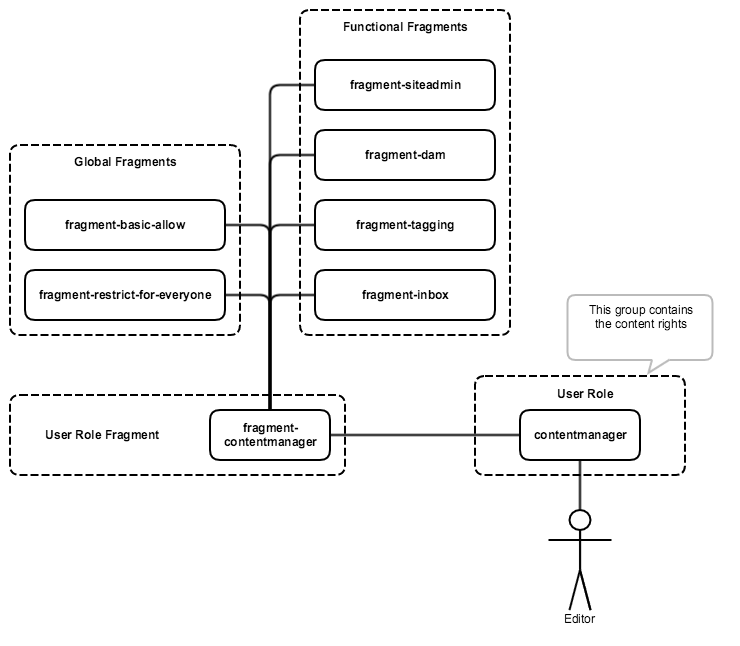
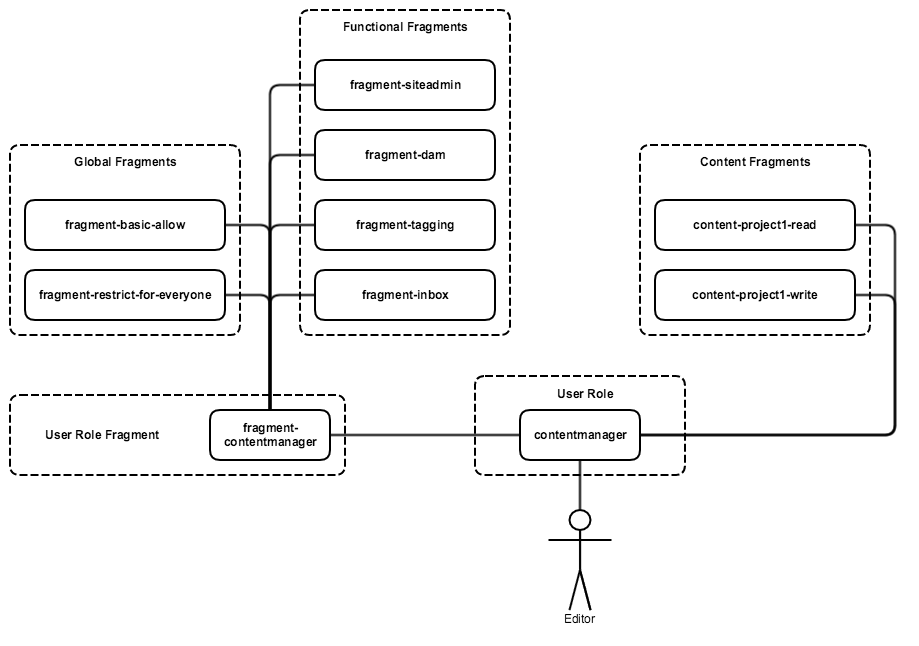
added content groups

diff --git a/docs/BestPractices.md b/docs/BestPractices.md
@@ -90,18 +90,18 @@ In a second group (fragment-project1) you can then allow to read the child node 
 
 ```
 
-## Use fragment groups for functional aspects
+## Use fragment groups for functional aspects and content access
 
 You should separate rights for functional aspects (e.g. access to DAM editor, CRX/DE or tag management) and content.
-This means there are groups just for tool access (we call them fragment-... here) but not for content. This way you can enable access to required tools easily and editors only see what they need on the welcome page.
+This means there are groups just for tool access (we call them fragment-... here) and others just for content (we call them content-.. here). This way you can enable access to required tools easily and editors only see what they need on the welcome page.
 
-The group that is effectively assigned to a user then includes a functional group for tooling access and content permissions.
+The group that is effectively assigned to a user then includes a functional group for tooling access and content groups.
 
 <img src="images/fragments.png">
 
-In this case the user is a content manager. So the group "contentmanager" provides him the content permissions + the functional group "fragment-contentmanager" to enable the right tools. The group "fragment-contentmanagers" includes functional aspects such as "fragment-dam" for access to DAM tool. It also includes the groups "fragment-restrict-for-everyone" and "fragment-basic-allow".
+In this case the user is a content manager. So the group "contentmanager" provides him the content groups + the functional group "fragment-contentmanager" to enable the right tools. The group "fragment-contentmanagers" includes functional aspects such as "fragment-dam" for access to DAM tool. It also includes the groups "fragment-restrict-for-everyone" and "fragment-basic-allow".
 
 * fragment-restrict-for-everyone: initially denies access to all tools and content, includes all deny rules
 * fragment-basic-allow: allows access to nodes that are readable for all users (e.g. /content without subnodes)
 
-Please note that the functional fragment groups do not provide any content access. Read/write access to a website is provided by the group "contentmanager" only.
+Please note that the functional fragment groups do not provide any content access. Read/write access to a website is provided by the groups "content-project1-read" and "content-project1-write".
